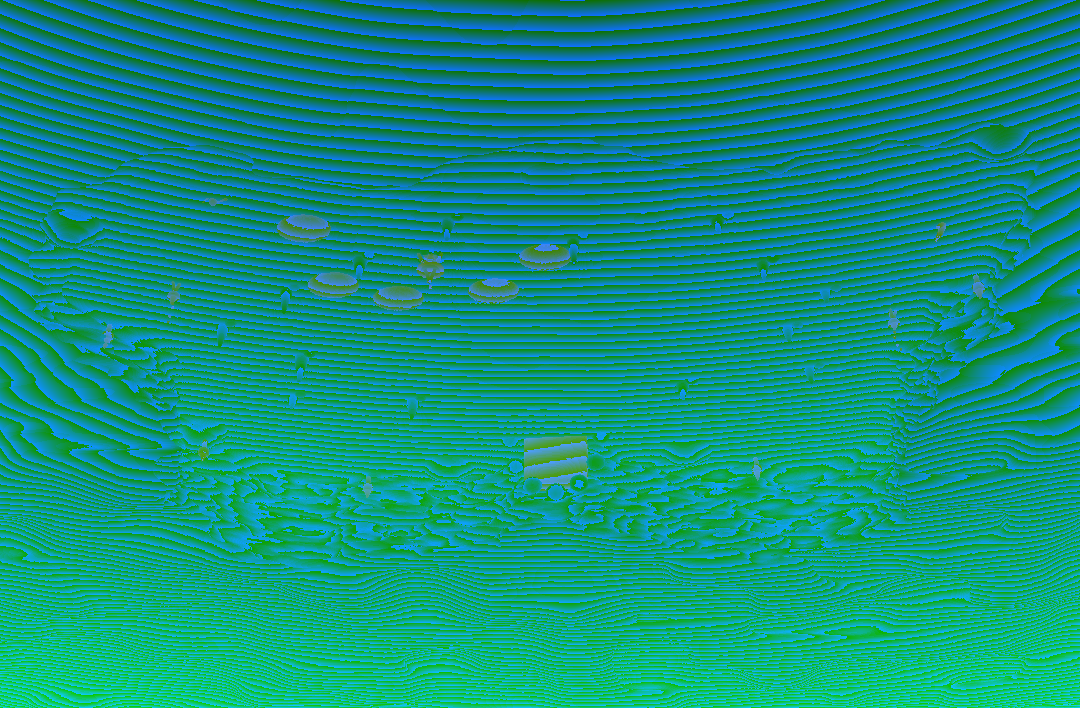
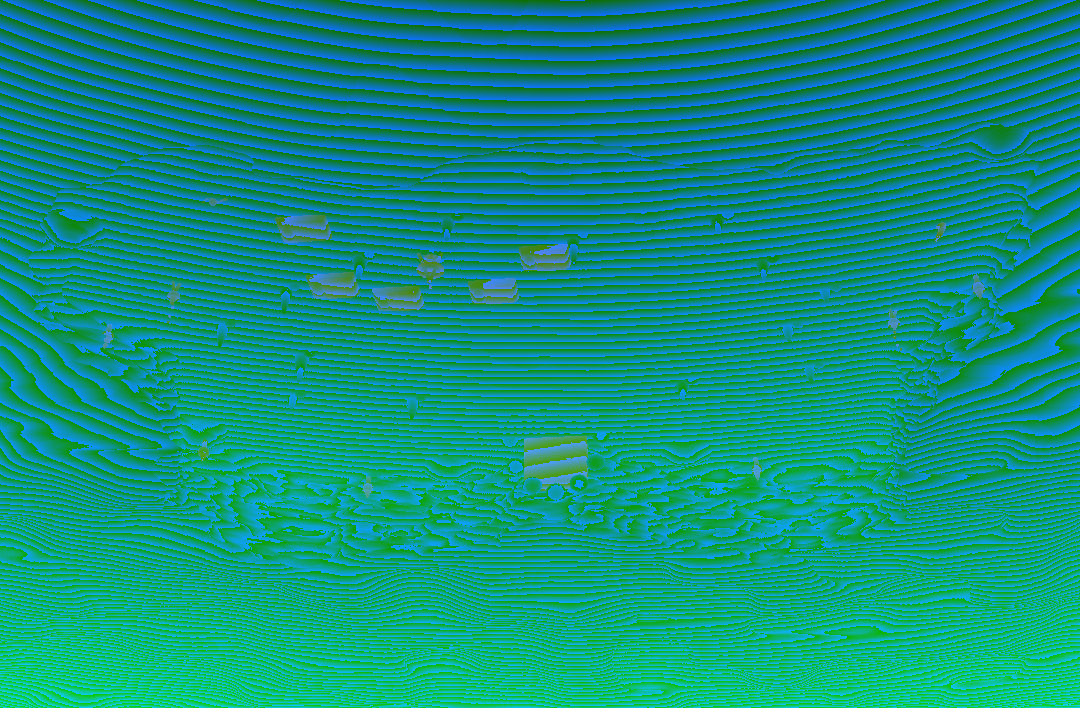
寝床を作り直し（わら＋毛布＋まくら）
Claude-Session: https://claude.ai/code/session_01MpJPWy321815AwYbXUCf2V

Changed region(s): [[0.4278, 0.3418, 0.55, 0.435], [0.275, 0.3729, 0.3972, 0.4661], [0.2444, 0.2797, 0.3056, 0.3418]]

diff --git a/index.html b/index.html
@@ -7242,7 +7242,7 @@ document.addEventListener("click", ev => {
 { const _oc2 = openChest19; openChest19 = function (S, c) { if (c.kind !== "lvall") return _oc2(S, c); if (!S.mons.length) return _oc2(S, c);
   return { text: "👑 覚醒", sub: "Lv+3 する子を1体えらんでね", sp: null, feed: 1, awaken: true, evos: [] }; }; }
 
-const VER20 = "No.244（11/20 00:28）";
+const VER20 = "No.245（11/20 01:10）";
 // ================= proto20：ダンジョンを見る画面と、配置する画面を分ける =================
 // ・ダンジョン画面：洞窟を大きく。部屋をタップ → 部屋ボード（全画面）
 // ・🧭育成：育てる→稼ぐ／守るの流れで見る。卒業Lv・毎朝おまかせ
@@ -9584,10 +9584,10 @@ const ROOMS24 = {
  CRATES`, lights: `LIGHT(-0.85,1.22,0.9,1.0,0.66,0.32,3.0) LANTERNL`, keepDummy: false },
  sleep: { props: `
  for(int i=0;i<5;i++){vec3 c=i==0?vec3(-4.6,0.0,-2.3):i==1?vec3(-1.9,0.0,-3.5):i==2?vec3(2.4,0.0,-3.4):i==3?vec3(4.9,0.0,-1.3):vec3(-5.0,0.0,1.6);vec3 q=p-c;
-  float b=sEll(q-vec3(0,0.04,0),vec3(1.05,0.2,0.75))+(vnoise(q*14.0)-0.5)*0.05;b=smin(b,abs(sEll(q-vec3(0,0.12,0),vec3(1.0,0.22,0.7)))-0.06+(vnoise(q*16.0)-0.5)*0.04,0.05);if(b<r.x)r=vec2(b,13.0);
-  float fu=sEll(q-vec3(0.35,0.17,0.15),vec3(0.42,0.06,0.36))+(vnoise(q*9.0)-0.5)*0.03;if(i!=4&&fu<r.x)r=vec2(fu,14.0);}
+  float fr=sRBox(q-vec3(0,0.1,0),vec3(1.02,0.1,0.7),0.04);if(fr<r.x)r=vec2(fr,12.0);float b=sRBox(q-vec3(0,0.25,0),vec3(0.96,0.09,0.64),0.08)+(vnoise(q*14.0)-0.5)*0.04;if(b<r.x)r=vec2(b,13.0);
+  float bl=sRBox(q-vec3(0.24,0.35,0.0),vec3(0.62,0.045,0.62),0.05)+(vnoise(q*5.0)-0.5)*0.02;if(i!=4&&bl<r.x)r=vec2(bl,27.0);float pl=sEll(q-vec3(-0.66,0.38,0.0),vec3(0.2,0.09,0.36));if(pl<r.x)r=vec2(pl,15.0);}
  FIREPIT(0.0,-0.9)
- {vec3 q=p-vec3(0.0,0.0,-0.9);float cl=abs(length(q-vec3(0,0.75,0))-0.34)-0.03;cl=max(cl,q.y-0.82);if(cl<r.x)r=vec2(cl,18.0);
+ {vec3 q=p-vec3(0.0,0.0,-0.9);float cl=abs(length(q-vec3(0,0.75,0))-0.34)-0.03;cl=max(cl,q.y-0.82);if(cl<r.x)r=vec2(cl,12.0);
   float sp=sEll(q-vec3(0,0.78,0),vec3(0.3,0.02,0.3));if(sp<r.x)r=vec2(sp,25.0);
   for(int i=0;i<3;i++){float a=float(i)*2.094+0.5;vec3 e=vec3(cos(a)*0.62,0.0,sin(a)*0.62);float lg=sTap(q,e,vec3(0,1.45,0),0.03,0.025);if(lg<r.x)r=vec2(lg,12.0);}
   float ch=sTap(q,vec3(0,1.45,0),vec3(0,1.1,0),0.012,0.012);if(ch<r.x)r=vec2(ch,18.0);}
@@ -11056,7 +11056,7 @@ function roomKind25(i){ const R = S.path[i] || {}; if (i === lordIdx(S)) return 
   return F.includes("train") ? "train" : F.includes("mine") ? "mine" : F.includes("bed") ? "bed" : R.fac === "mine" ? "mine" : R.fac === "bed" ? "bed" : R.fac === "train" ? "train" : F.includes("nest") || R.fac === "nest" ? "nest" : F.includes("watch") || R.fac === "watch" ? "watch" : F.includes("gate") || R.fac === "gate" ? "entry" : "plain"; }
 // 配った洞窟の絵（bg25/部屋の種類_c.png・_d.png）があれば、それを読み込む
 function setRoom25(i){ const C = B3.C; C.setRoom(B3.roomKey); const k = roomKind25(i); if (!BGSHIP25[k]) return; C.putBgImages(`bg25/${k}_c.webp?v=${BGSHIP25[k]}`, `bg25/${k}_d.webp?v=${BGSHIP25[k]}`, C.st.bgKey); }
-const BGSHIP25 = { train: "67281e1f", mine: "6ba1ef93", bed: "2e371731", lord: "41ce104d", plain: "86e68c06", nest: "d981244e", watch: "6686d08e", entry: "9104082d", train_mine: "e0cc1a5d", train_bed: "2691d985", train_nest: "ee1014d3", train_watch: "1790fb25", mine_bed: "40fb9983", mine_nest: "50610d30", mine_watch: "8aca37cb", bed_nest: "b08c05d9", bed_watch: "170508f1", nest_watch: "c182a20f", lordday: "41ce104d" };
+const BGSHIP25 = { train: "67281e1f", mine: "6ba1ef93", bed: "dbc8dea8", lord: "41ce104d", plain: "86e68c06", nest: "d981244e", watch: "6686d08e", entry: "9104082d", train_mine: "e0cc1a5d", train_bed: "765c447a", train_nest: "ee1014d3", train_watch: "1790fb25", mine_bed: "73ac2924", mine_nest: "50610d30", mine_watch: "8aca37cb", bed_nest: "ac80d15a", bed_watch: "611ab0b6", nest_watch: "c182a20f", lordday: "41ce104d" };
 function roomKey25(i){ const on = {}; ROOMSET25[roomKind25(i)].forEach(k => on[k] = true); return HAI25.room(on); }
 // ---- 3Dのキャラの種類 ----
 const heroSp25 = h => (typeof heroId === "function" ? String(heroId(h)).replace(/\d+$/, "") : h.job) || "warrior";
@@ -11534,7 +11534,7 @@ function droom25(i){ const kind = roomKind25(i), on = {}; ROOMSET25[kind].forEac
   return D3.act[i] = { sig, kind, acts, OB, beds: BEDS, nests: NESTS }; }
 // ---- 手前に立つ物（岩・柱・たいまつ・壁）のうしろに入った子を隠す ----
 // bg25/<部屋>_o.webp：半分の大きさ、明るさ＝カメラからの距離（255は床で、隠さない）
-const OCCV25 = {"bed":"5a9a85","bed_nest":"01864d","bed_watch":"0b8aa0","entry":"67a677","lord":"35ef8a","lordday":"35ef8a","mine":"9675f0","mine_bed":"9b52cb","mine_nest":"cdb4e9","mine_watch":"97d2d0","nest":"a52685","nest_watch":"71a7b0","plain":"6b014e","train":"40948d","train_bed":"9fcae4","train_mine":"389e61","train_nest":"6414ba","train_watch":"c8101e","watch":"431754"};
+const OCCV25 = {"bed":"4dd727","bed_nest":"7fff1b","bed_watch":"a8da6c","entry":"67a677","lord":"35ef8a","lordday":"35ef8a","mine":"9675f0","mine_bed":"672583","mine_nest":"cdb4e9","mine_watch":"97d2d0","nest":"a52685","nest_watch":"71a7b0","plain":"6b014e","train":"40948d","train_bed":"415619","train_mine":"389e61","train_nest":"6414ba","train_watch":"c8101e","watch":"431754"};
 function docc25(bk){ const k = "occ:" + bk; if (D3.img[k]) return D3.img[k]; const o = D3.img[k] = { ok: 0 }; if (!OCCV25[bk]) return o;
   const im = new Image(); im.onload = () => { try { const c = document.createElement("canvas"); c.width = im.width; c.height = im.height; const g = c.getContext("2d"); g.drawImage(im, 0, 0);
     const d = g.getImageData(0, 0, im.width, im.height).data, q = new Uint8Array(im.width * im.height); for (let j = 0; j < q.length; j++) q[j] = d[j * 4];

diff --git a/v360.html b/v360.html
@@ -7242,7 +7242,7 @@ document.addEventListener("click", ev => {
 { const _oc2 = openChest19; openChest19 = function (S, c) { if (c.kind !== "lvall") return _oc2(S, c); if (!S.mons.length) return _oc2(S, c);
   return { text: "👑 覚醒", sub: "Lv+3 する子を1体えらんでね", sp: null, feed: 1, awaken: true, evos: [] }; }; }
 
-const VER20 = "No.244（11/20 00:28）";
+const VER20 = "No.245（11/20 01:10）";
 // ================= proto20：ダンジョンを見る画面と、配置する画面を分ける =================
 // ・ダンジョン画面：洞窟を大きく。部屋をタップ → 部屋ボード（全画面）
 // ・🧭育成：育てる→稼ぐ／守るの流れで見る。卒業Lv・毎朝おまかせ
@@ -9584,10 +9584,10 @@ const ROOMS24 = {
  CRATES`, lights: `LIGHT(-0.85,1.22,0.9,1.0,0.66,0.32,3.0) LANTERNL`, keepDummy: false },
  sleep: { props: `
  for(int i=0;i<5;i++){vec3 c=i==0?vec3(-4.6,0.0,-2.3):i==1?vec3(-1.9,0.0,-3.5):i==2?vec3(2.4,0.0,-3.4):i==3?vec3(4.9,0.0,-1.3):vec3(-5.0,0.0,1.6);vec3 q=p-c;
-  float b=sEll(q-vec3(0,0.04,0),vec3(1.05,0.2,0.75))+(vnoise(q*14.0)-0.5)*0.05;b=smin(b,abs(sEll(q-vec3(0,0.12,0),vec3(1.0,0.22,0.7)))-0.06+(vnoise(q*16.0)-0.5)*0.04,0.05);if(b<r.x)r=vec2(b,13.0);
-  float fu=sEll(q-vec3(0.35,0.17,0.15),vec3(0.42,0.06,0.36))+(vnoise(q*9.0)-0.5)*0.03;if(i!=4&&fu<r.x)r=vec2(fu,14.0);}
+  float fr=sRBox(q-vec3(0,0.1,0),vec3(1.02,0.1,0.7),0.04);if(fr<r.x)r=vec2(fr,12.0);float b=sRBox(q-vec3(0,0.25,0),vec3(0.96,0.09,0.64),0.08)+(vnoise(q*14.0)-0.5)*0.04;if(b<r.x)r=vec2(b,13.0);
+  float bl=sRBox(q-vec3(0.24,0.35,0.0),vec3(0.62,0.045,0.62),0.05)+(vnoise(q*5.0)-0.5)*0.02;if(i!=4&&bl<r.x)r=vec2(bl,27.0);float pl=sEll(q-vec3(-0.66,0.38,0.0),vec3(0.2,0.09,0.36));if(pl<r.x)r=vec2(pl,15.0);}
  FIREPIT(0.0,-0.9)
- {vec3 q=p-vec3(0.0,0.0,-0.9);float cl=abs(length(q-vec3(0,0.75,0))-0.34)-0.03;cl=max(cl,q.y-0.82);if(cl<r.x)r=vec2(cl,18.0);
+ {vec3 q=p-vec3(0.0,0.0,-0.9);float cl=abs(length(q-vec3(0,0.75,0))-0.34)-0.03;cl=max(cl,q.y-0.82);if(cl<r.x)r=vec2(cl,12.0);
   float sp=sEll(q-vec3(0,0.78,0),vec3(0.3,0.02,0.3));if(sp<r.x)r=vec2(sp,25.0);
   for(int i=0;i<3;i++){float a=float(i)*2.094+0.5;vec3 e=vec3(cos(a)*0.62,0.0,sin(a)*0.62);float lg=sTap(q,e,vec3(0,1.45,0),0.03,0.025);if(lg<r.x)r=vec2(lg,12.0);}
   float ch=sTap(q,vec3(0,1.45,0),vec3(0,1.1,0),0.012,0.012);if(ch<r.x)r=vec2(ch,18.0);}
@@ -11056,7 +11056,7 @@ function roomKind25(i){ const R = S.path[i] || {}; if (i === lordIdx(S)) return 
   return F.includes("train") ? "train" : F.includes("mine") ? "mine" : F.includes("bed") ? "bed" : R.fac === "mine" ? "mine" : R.fac === "bed" ? "bed" : R.fac === "train" ? "train" : F.includes("nest") || R.fac === "nest" ? "nest" : F.includes("watch") || R.fac === "watch" ? "watch" : F.includes("gate") || R.fac === "gate" ? "entry" : "plain"; }
 // 配った洞窟の絵（bg25/部屋の種類_c.png・_d.png）があれば、それを読み込む
 function setRoom25(i){ const C = B3.C; C.setRoom(B3.roomKey); const k = roomKind25(i); if (!BGSHIP25[k]) return; C.putBgImages(`bg25/${k}_c.webp?v=${BGSHIP25[k]}`, `bg25/${k}_d.webp?v=${BGSHIP25[k]}`, C.st.bgKey); }
-const BGSHIP25 = { train: "67281e1f", mine: "6ba1ef93", bed: "2e371731", lord: "41ce104d", plain: "86e68c06", nest: "d981244e", watch: "6686d08e", entry: "9104082d", train_mine: "e0cc1a5d", train_bed: "2691d985", train_nest: "ee1014d3", train_watch: "1790fb25", mine_bed: "40fb9983", mine_nest: "50610d30", mine_watch: "8aca37cb", bed_nest: "b08c05d9", bed_watch: "170508f1", nest_watch: "c182a20f", lordday: "41ce104d" };
+const BGSHIP25 = { train: "67281e1f", mine: "6ba1ef93", bed: "dbc8dea8", lord: "41ce104d", plain: "86e68c06", nest: "d981244e", watch: "6686d08e", entry: "9104082d", train_mine: "e0cc1a5d", train_bed: "765c447a", train_nest: "ee1014d3", train_watch: "1790fb25", mine_bed: "73ac2924", mine_nest: "50610d30", mine_watch: "8aca37cb", bed_nest: "ac80d15a", bed_watch: "611ab0b6", nest_watch: "c182a20f", lordday: "41ce104d" };
 function roomKey25(i){ const on = {}; ROOMSET25[roomKind25(i)].forEach(k => on[k] = true); return HAI25.room(on); }
 // ---- 3Dのキャラの種類 ----
 const heroSp25 = h => (typeof heroId === "function" ? String(heroId(h)).replace(/\d+$/, "") : h.job) || "warrior";
@@ -11534,7 +11534,7 @@ function droom25(i){ const kind = roomKind25(i), on = {}; ROOMSET25[kind].forEac
   return D3.act[i] = { sig, kind, acts, OB, beds: BEDS, nests: NESTS }; }
 // ---- 手前に立つ物（岩・柱・たいまつ・壁）のうしろに入った子を隠す ----
 // bg25/<部屋>_o.webp：半分の大きさ、明るさ＝カメラからの距離（255は床で、隠さない）
-const OCCV25 = {"bed":"5a9a85","bed_nest":"01864d","bed_watch":"0b8aa0","entry":"67a677","lord":"35ef8a","lordday":"35ef8a","mine":"9675f0","mine_bed":"9b52cb","mine_nest":"cdb4e9","mine_watch":"97d2d0","nest":"a52685","nest_watch":"71a7b0","plain":"6b014e","train":"40948d","train_bed":"9fcae4","train_mine":"389e61","train_nest":"6414ba","train_watch":"c8101e","watch":"431754"};
+const OCCV25 = {"bed":"4dd727","bed_nest":"7fff1b","bed_watch":"a8da6c","entry":"67a677","lord":"35ef8a","lordday":"35ef8a","mine":"9675f0","mine_bed":"672583","mine_nest":"cdb4e9","mine_watch":"97d2d0","nest":"a52685","nest_watch":"71a7b0","plain":"6b014e","train":"40948d","train_bed":"415619","train_mine":"389e61","train_nest":"6414ba","train_watch":"c8101e","watch":"431754"};
 function docc25(bk){ const k = "occ:" + bk; if (D3.img[k]) return D3.img[k]; const o = D3.img[k] = { ok: 0 }; if (!OCCV25[bk]) return o;
   const im = new Image(); im.onload = () => { try { const c = document.createElement("canvas"); c.width = im.width; c.height = im.height; const g = c.getContext("2d"); g.drawImage(im, 0, 0);
     const d = g.getImageData(0, 0, im.width, im.height).data, q = new Uint8Array(im.width * im.height); for (let j = 0; j < q.length; j++) q[j] = d[j * 4];
